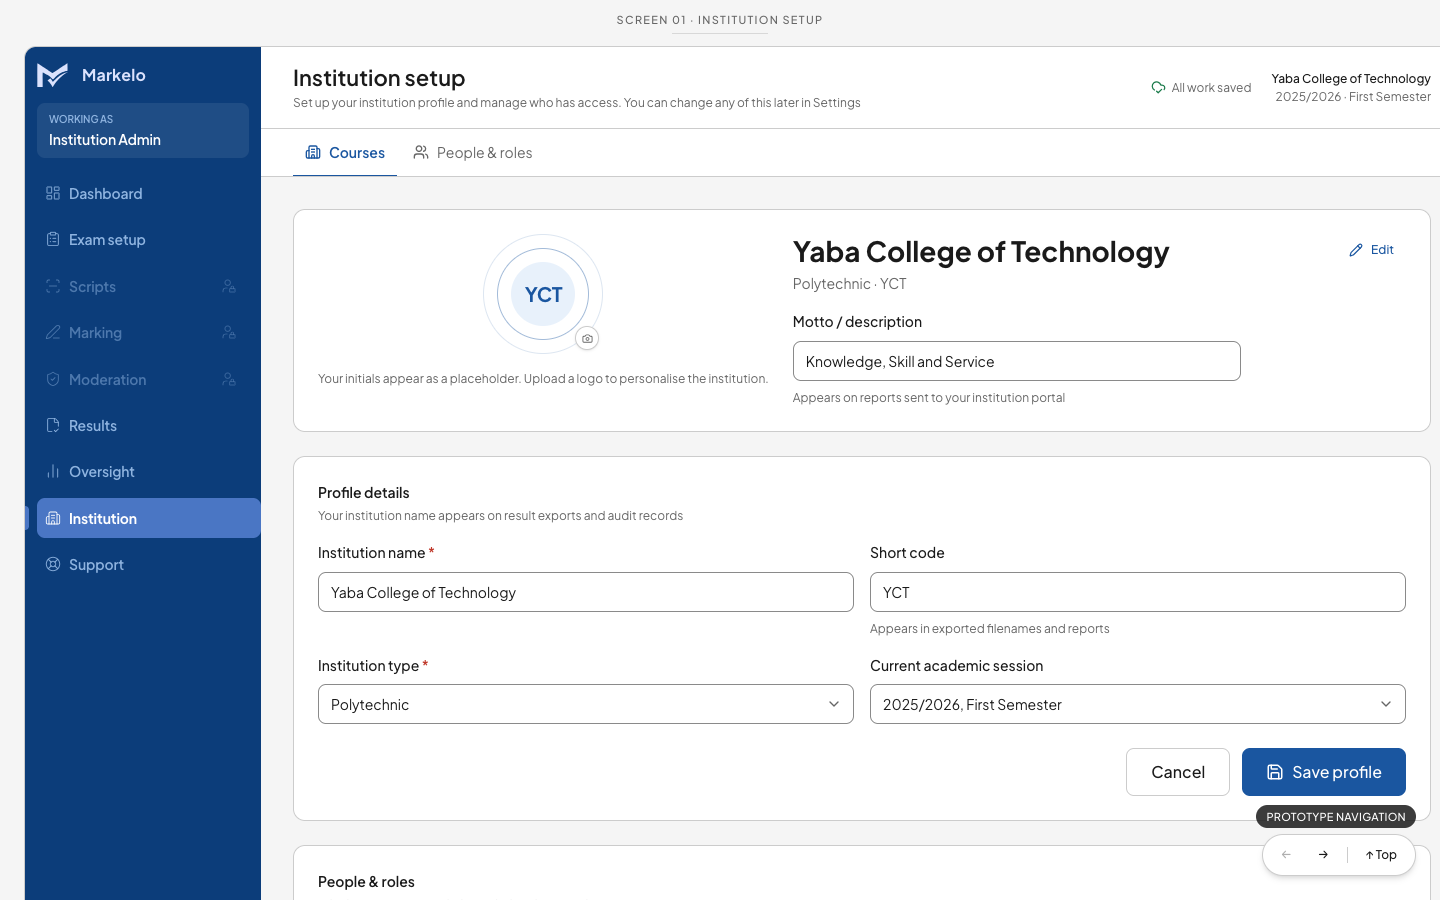
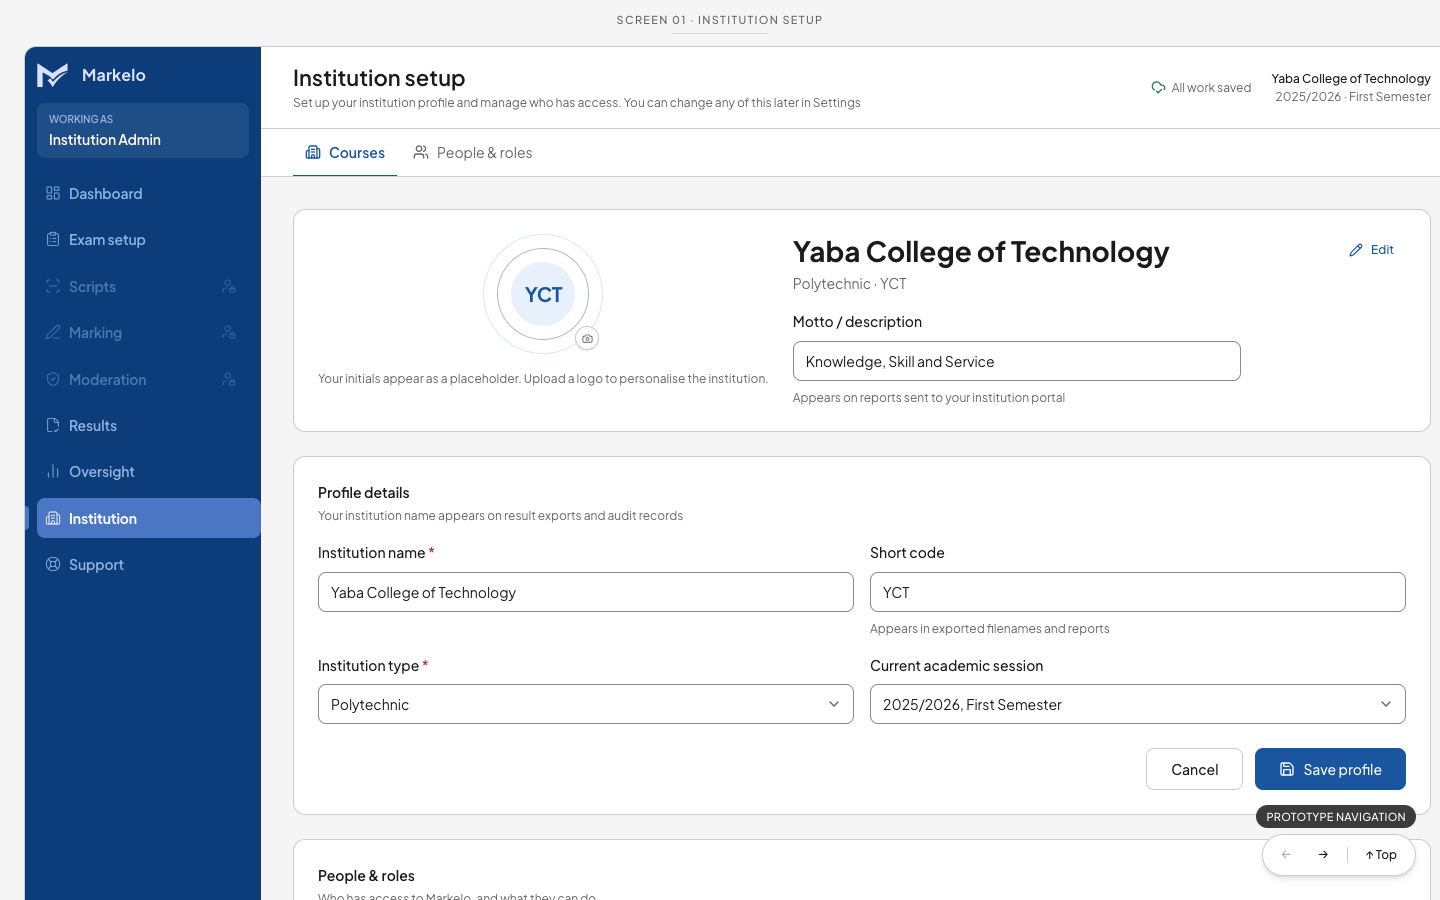
refactor(tooltip): rebuild arrow as 16px×8px clip-path triangle, add left position, drop shadow
- Arrow: CSS clip-path triangle instead of rotated square, same #1A1A1A fill
  as body so it reads as one continuous shape
- 4 directions: top (arrow ↓), bottom (arrow ↑), right (arrow ←), left (arrow →)
- Drop shadow: 0px 4px 8px rgba(0,0,0,0.20)
- 'left' position added (tooltip to left of trigger, arrow points right)
- Components.tsx: added Left sample row, updated description
- 13/13 headless Chrome PASS

Changed region(s): [[0.2188, 0.8089, 0.9688, 0.9333], [0.2188, 0.9644, 0.4375, 1.0]]

diff --git a/webapp-scaffold/src/ui/kit.tsx b/webapp-scaffold/src/ui/kit.tsx
@@ -561,18 +561,14 @@ export function Row({ children, className = "" }: { children: React.ReactNode; c
 /* ----------------------------------------------------------------- Tooltip */
 
 /*
-  Dark tooltip with a subtle bounce entrance and a triangular arrow pointing
-  toward the target element. Rendered via createPortal to document.body, so it
-  can never be clipped by a parent's overflow (tables, cards, sidebars).
+  Dark tooltip. Flex-column body + 16px×8px triangular point, rendered via
+  createPortal to document.body so it escapes parent overflow.
 
-  Automatically flips direction when the trigger is near the top of the
-  viewport (top → bottom with an upward-pointing arrow), so controls at the
-  top of the page never push a tooltip off screen. Explicit "top", "bottom",
-  or "right" overrides the auto behaviour when needed.
-
-  Animation: 200ms (--motion-quick), --motion-enter easing, three-stop bounce
-  keyframe (0%: scale 0.85 + 4px rise → 60%: scale 1.06 + -2px overshoot →
-  100%: settle). At prefers-reduced-motion the bounce is stripped globally.
+  Arrow is a CSS clip-path triangle drawn in the same fill as the body so it
+  reads as one continuous shape. Four directions, dynamically chosen:
+  top (arrow ↓), bottom (arrow ↑), right (arrow ←), left (arrow →).
+  "auto" picks top or bottom based on the trigger's distance from the
+  viewport top (180px threshold).
 */
 export function Tooltip({
   content,
@@ -582,21 +578,23 @@ export function Tooltip({
 }: {
   content: string;
   children: React.ReactNode;
-  position?: "top" | "bottom" | "right" | "auto";
+  position?: "top" | "bottom" | "right" | "left" | "auto";
   delay?: number;
 }) {
   const [visible, setVisible] = React.useState(false);
-  const [coords, setCoords] = React.useState({ x: 0, y: 0, dir: "top" as "top" | "bottom" | "right" });
+  const [coords, setCoords] = React.useState({ x: 0, y: 0, dir: "top" as Dir });
   const triggerRef = React.useRef<HTMLSpanElement>(null);
   const timerRef = React.useRef<ReturnType<typeof setTimeout>>();
+
+  type Dir = "top" | "bottom" | "right" | "left";
 
   const show = () => {
     timerRef.current = setTimeout(() => {
       if (!triggerRef.current) return;
       const rect = triggerRef.current.getBoundingClientRect();
-      let dir: "top" | "bottom" | "right";
-      if (position === "right") {
-        dir = "right";
+      let dir: Dir;
+      if (position === "right" || position === "left") {
+        dir = position;
       } else if (position === "auto") {
         dir = rect.top < 180 ? "bottom" : "top";
       } else {
@@ -604,7 +602,7 @@ export function Tooltip({
       }
       setCoords({
         x: rect.left + rect.width / 2,
-        y: dir === "top" ? rect.top - 8 : rect.bottom + 8,
+        y: dir === "top" ? rect.top - 8 : dir === "bottom" ? rect.bottom + 8 : rect.top + rect.height / 2,
         dir,
       });
       setVisible(true);
@@ -616,17 +614,38 @@ export function Tooltip({
     setVisible(false);
   };
 
-  const transform = {
-    top: "-translate-x-1/2 -translate-y-full",
-    bottom: "-translate-x-1/2",
-    right: "translate-x-1.5 -translate-y-1/2",
-  }[coords.dir];
+  const layout = {
+    top:    { flex: "flex-col items-center" as const, transform: "-translate-x-1/2 -translate-y-full" as const },
+    bottom: { flex: "flex-col items-center" as const, transform: "-translate-x-1/2" as const },
+    right:  { flex: "flex-row items-center"  as const, transform: "translate-x-1.5 -translate-y-1/2" as const },
+    left:   { flex: "flex-row items-center"  as const, transform: "-translate-x-[calc(100%+6px)] -translate-y-1/2" as const },
+  };
 
-  const arrowPos = {
-    top: "bottom-[-3px] left-1/2 -translate-x-1/2",
-    bottom: "top-[-3px] left-1/2 -translate-x-1/2",
-    right: "left-[-3px] top-1/2 -translate-y-1/2",
-  }[coords.dir];
+  const arrows = {
+    top:    "polygon(50% 100%, 0 0, 100% 0)" as const,
+    bottom: "polygon(50% 0%, 0% 100%, 100% 100%)" as const,
+    right:  "polygon(0% 50%, 100% 0%, 100% 100%)" as const,
+    left:   "polygon(100% 50%, 0% 0%, 0% 100%)" as const,
+  };
+
+  const l = layout[coords.dir];
+  const a = arrows[coords.dir];
+
+  const isVertical = coords.dir === "top" || coords.dir === "bottom";
+
+  const body = (
+    <span className="block whitespace-nowrap rounded-[4px] bg-[#1A1A1A] px-2 py-1 text-[10px] leading-[14px] text-white">
+      {content}
+    </span>
+  );
+
+  const point = (
+    <span
+      aria-hidden
+      className={`shrink-0 bg-[#1A1A1A] ${isVertical ? "h-[8px] w-[16px]" : "h-[16px] w-[8px]"}`}
+      style={{ clipPath: a }}
+    />
+  );
 
   return (
     <span
@@ -641,17 +660,13 @@ export function Tooltip({
       {visible &&
         createPortal(
           <span
-            className={`fixed z-[9999] ${transform} animate-tooltip-bounce pointer-events-none select-none`}
-            style={{ top: coords.y, left: coords.x }}
+            className={`fixed z-[9999] ${l.flex} ${l.transform} gap-0 animate-tooltip-bounce pointer-events-none select-none`}
+            style={{ top: coords.y, left: coords.x, filter: "drop-shadow(0px 4px 8px rgba(0,0,0,0.20))" }}
             role="tooltip"
           >
-            <span className="relative block whitespace-nowrap rounded-[4px] bg-[#1A1A1A] px-2 py-1 text-[10px] leading-[14px] text-white">
-              {content}
-              <span
-                className={`absolute ${arrowPos} h-[6px] w-[6px] rotate-45 rounded-[1px] bg-[#1A1A1A]`}
-                aria-hidden
-              />
-            </span>
+            {coords.dir === "bottom" || coords.dir === "right" ? point : null}
+            {body}
+            {coords.dir === "top" || coords.dir === "left" ? point : null}
           </span>,
           document.body
         )}

diff --git a/webapp-scaffold/src/screens/components.tsx b/webapp-scaffold/src/screens/components.tsx
@@ -103,10 +103,10 @@ export function TooltipSamples() {
       <div className="mx-auto max-w-4xl">
         <h1 className="text-title font-bold text-text">Tooltip</h1>
         <p className="mt-2 max-w-2xl text-body text-muted">
-          Dark tooltip (#1A1A1A, white 10px text, 4px radius) with a subtle
-          bounce entrance and a triangular arrow. Rendered to document.body
-          via portal so it can never be clipped by a parent overflow (table,
-          sidebar, card).
+          Dark tooltip (#1A1A1A, white 10px text, 4px radius) with a 16px×8px
+          triangular arrow drawn via CSS clip-path. The arrow and body share the
+          same fill so they read as one continuous shape. Rendered to document.body
+          via portal so it can never be clipped by parent overflow.
         </p>
 
         {/*
@@ -180,6 +180,12 @@ export function TooltipSamples() {
           <Row label="Right" note="Arrow points left, tooltip to the right. For narrow columns like a sidebar row.">
             <Tooltip content="Notification preferences" position="right">
               <span className="inline-flex cursor-default rounded-control border border-border px-3 py-1 text-body text-text">Hover me (right)</span>
+            </Tooltip>
+          </Row>
+
+          <Row label="Left" note="Arrow points right, tooltip to the left. For elements near the right edge of the screen.">
+            <Tooltip content="Close this panel" position="left">
+              <span className="inline-flex cursor-default rounded-control border border-border px-3 py-1 text-body text-text">Hover me (left)</span>
             </Tooltip>
           </Row>
 
